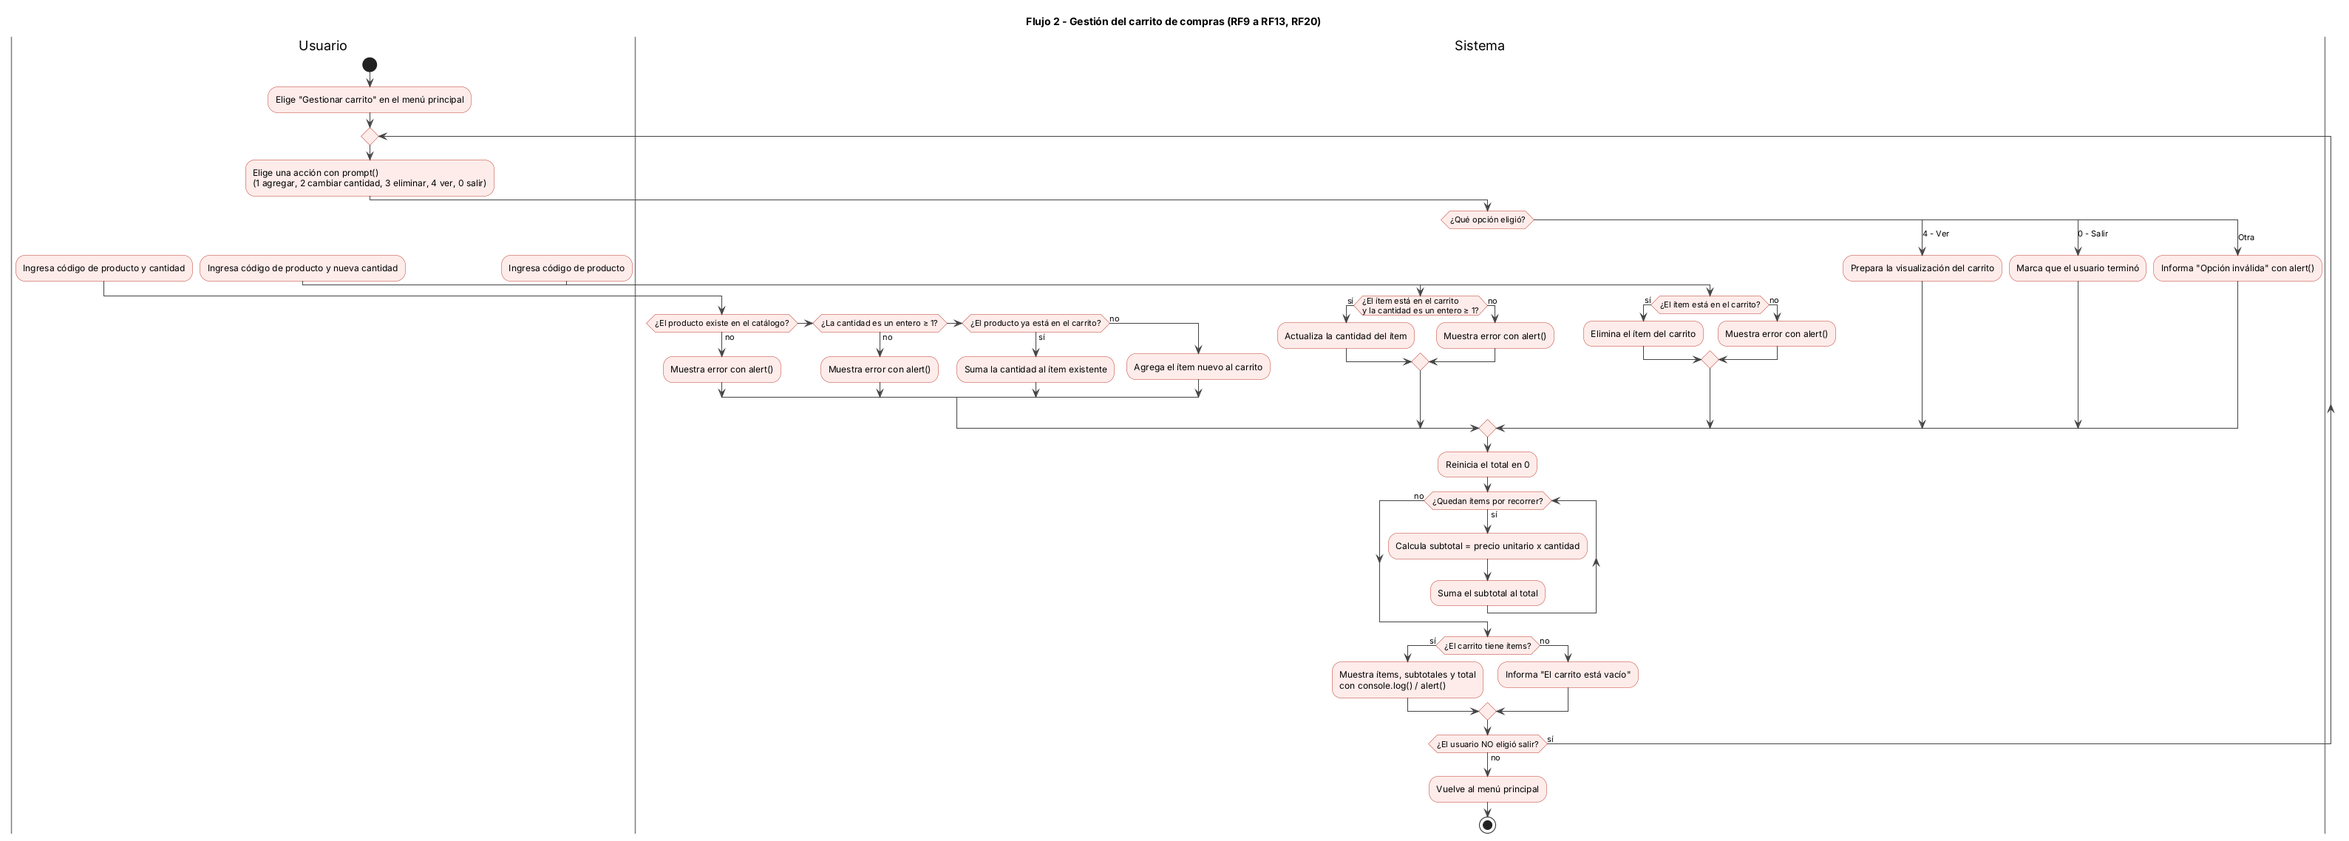
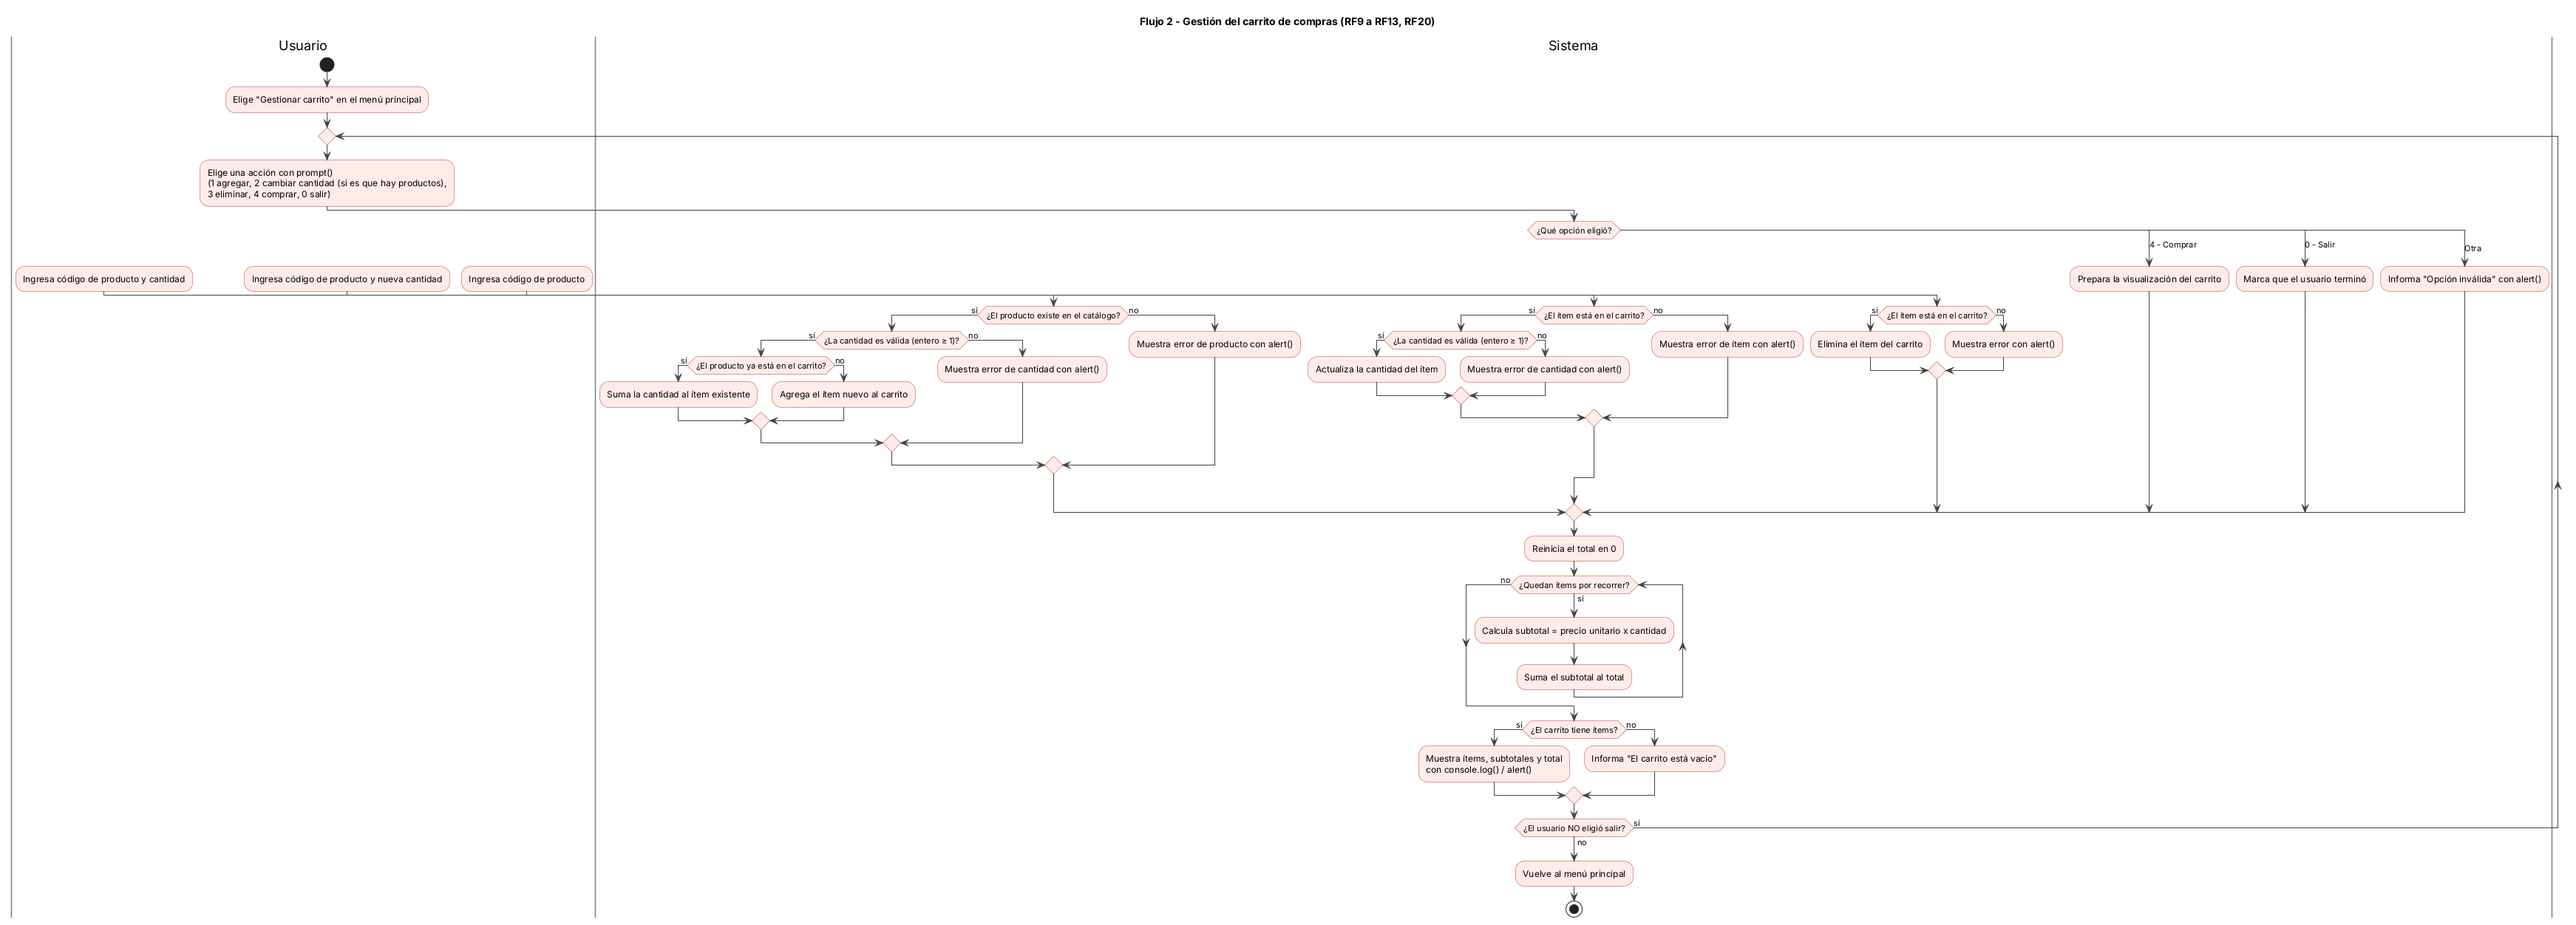
aplicar correcciones del code review (flujo 2, spec AL CERRAR, checklist y changelog)

diff --git a/docs/03-specs/actividad-obligatoria-3/spec-arq-diagramas.md b/docs/03-specs/actividad-obligatoria-3/spec-arq-diagramas.md
@@ -43,17 +43,19 @@ UI. Dentro de cada diagrama:
 
 ### Criterios de aceptación
 
-- [ ] 4 diagramas con `start`, `stop`, actividades, decisiones `if-then-else`
+- [x] 4 diagramas con `start`, `stop`, actividades, decisiones `if-then-else`
       y ciclos (`while` o `repeat`).
-- [ ] Swimlanes `|Usuario|` y `|Sistema|` en los flujos donde interviene el
+- [x] Swimlanes `|Usuario|` y `|Sistema|` en los flujos donde interviene el
       usuario.
-- [ ] Flujo lógico coherente con la implementación planificada en `plan.md`
+- [x] Flujo lógico coherente con la implementación planificada en `plan.md`
       y con `index.html`.
-- [ ] Archivos `.puml` y `.png` exportados para cada diagrama.
-- [ ] `diagramas-doc.md` con índice, descripción de cada flujo, enlace al
-      `.puml`, imagen `.png` embebida e instrucciones de edición.
+- [x] Archivos `.puml` y `.png` exportados para cada diagrama (cada `.png`
+      se regeneró desde su `.puml` y se comprobó que coincide).
+- [x] `diagramas-doc.md` con índice, descripción de cada flujo, enlace al
+      `.puml`, imagen `.png` embebida e instrucciones de edición (se
+      comprobó que los enlaces relativos apuntan a archivos existentes).
 - [ ] Coordinación con el Desarrollador JavaScript para que los diagramas
-      reflejen la implementación.
+      reflejen la implementación (pendiente de confirmación por su parte).
 
 ### Herramientas
 
@@ -77,30 +79,78 @@ docs/05-diagramas/01-diagrama-de-actividades/actividad-flujo-4-confirmacion-pedi
 
 ## AL CERRAR — Evidencia del proceso
 
-*(Completar cuando terminen los diagramas.)*
+### Herramienta y contexto
 
-### Prompt exacto usado en Copilot Agent
+Los borradores de los 4 `.puml` se generaron con un asistente de IA
+conversacional (Claude), no con GitHub Copilot en modo Agente. Se le
+proporcionó como contexto:
 
-Archivos adjuntados como contexto: `plan.md`, `index.html`, mockup
-(`docs/01-mockup/...`).
+- El repositorio del proyecto (`ProyectoFerreteria_GRP05`, rama
+  `origin/develop`), del que se leyeron `plan.md` e `index.html`.
+- La consigna de la Actividad Obligatoria N°3 (PDF).
+
+No se adjuntó la imagen del mockup en esa generación; la estructura de
+pantallas se tomó de `index.html`.
+
+Los diagramas se renderizaron con PlantUML (`plantuml.jar` 1.2024.7) para
+validar la sintaxis y exportar los `.png`.
+
+### Prompt utilizado
+
+Mensaje enviado al asistente, junto con el zip del repositorio y el PDF de
+la consigna:
 
 ```
-(pegar acá el prompt exacto)
+ya elegi el rol de Arquitecto de Diagramas de Actividades aca tenemos el actual estado del proyecto
 ```
 
-### Fragmento del `.puml` generado por Copilot
+A partir de eso el asistente propuso los 4 flujos (ver sección ANTES), que
+se aceptaron, y generó el spec y los `.puml`. Más tarde se pidió pasar a
+PlantUML un diagrama editado a mano (flujo 2) y se aplicaron las
+correcciones del code review.
+
+### Fragmento generado (primera versión del flujo 2)
 
 ```plantuml
-(pegar acá el fragmento de al menos uno de los diagramas, tal como lo generó Copilot)
+    if (¿El producto existe en el catálogo?) then (no)
+      :Muestra error con alert();
+    elseif (¿La cantidad es un entero ≥ 1?) then (no)
+      :Muestra error con alert();
+    elseif (¿El producto ya está en el carrito?) then (sí)
+      :Suma la cantidad al ítem existente;
+    else (no)
+      :Agrega el ítem nuevo al carrito;
+    endif
 ```
 
-### Ajustes manuales realizados
+### Ajustes manuales y correcciones
 
-- (errores de sintaxis PlantUML corregidos)
-- (flujos incorrectos o incompletos)
-- (swimlanes mal modeladas)
+- **Flujo 2, menú:** se cambió la opción 4 de "ver" a "comprar" y se agregó
+  "(si es que hay productos)" a la opción 2, editando el diagrama a mano.
+- **Flujo 2, estructura:** la primera versión resolvía el menú con una
+  cadena de `elseif`, que quedaba ancha y difícil de leer; se reescribió con
+  `switch`.
+- **Flujo 2, validaciones (code review):** la cadena de `elseif` mezclaba
+  condiciones formuladas en positivo con ramas `no` de error, lo que hacía
+  ambiguo el recorrido. Se reemplazó por decisiones anidadas con una
+  condición clara por nivel: primero existencia del producto, después
+  cantidad válida y finalmente si ya está en el carrito. Se aplicó el mismo
+  criterio al caso "cambiar cantidad".
+- **Verificación:** se regeneraron los 4 `.png` desde sus `.puml` y se
+  comprobó que coinciden con los archivos exportados.
 
 ### Decisiones de diseño finales
 
-- (por qué cada flujo quedó modelado como quedó)
-- (acuerdos con el Desarrollador JavaScript)
+- Swimlanes `|Usuario|` / `|Sistema|` en los cuatro diagramas, porque toda
+  la interacción es `prompt()` contra `alert()` / `console.log()` y eso
+  deja visible la separación entre interacción y lógica de negocio que se
+  pide para facilitar el testing.
+- Cada dato que se ingresa con `prompt()` se modela con un ciclo
+  `repeat ... repeat while` que vuelve a pedirlo hasta que sea válido.
+- Los flujos 2, 3 y 4 son consecutivos (carrito, pago, confirmación); el
+  flujo 1 es independiente y alimenta al 2.
+- En el flujo 3 se modelan dos métodos de pago: efectivo/transferencia (sin
+  cuotas) y tarjeta de crédito (con cuotas). El porcentaje de recargo se
+  representa como una consulta a una tabla según la cantidad de cuotas;
+  los valores concretos los define la implementación en `js/script.js`.
+- El flujo 4 solicita nombre, correo y dirección de envío del comprador.

diff --git a/README.md b/README.md
@@ -77,7 +77,7 @@ de Google Maps dentro de `.ratio.ratio-16x9`).
 
 | Nombre y Apellido | Matrícula | Usuario de GitHub | Rol |
 |-----| ----- | ------ | ------ |
-| Luciano Barrionuevo | 156398 | @LuchoBarrionuevo13 | Desarrollador Frontend/Bootstrap |
-| Alan Diaz | 152841 | @alandox1 | Desarrollador de Componentes HTML Avanzados |
-| Angel Cuarteron | 159438 | @angelgc9107-lgtm | Especialista en Componentes Bootstrap |
-| Thiago Piastrellini | 158097 | @Piastrellini | Coordinador y DevOps |
+| Luciano Barrionuevo | 156398 | @LuchoBarrionuevo13 | Coordinador y DevOps |
+| Alan Diaz | 152841 | @alandox1 | Arquitecto de Diagramas de Actividades |
+| Angel Cuarteron | 159438 | @angelgc9107-lgtm | Desarrollador javascript |
+| Thiago Piastrellini | 158097 | @Piastrellini | Tester JavaScript / QA Engineer |

diff --git a/docs/05-diagramas/01-diagrama-de-actividades/diagramas-doc.md b/docs/05-diagramas/01-diagrama-de-actividades/diagramas-doc.md
@@ -31,7 +31,7 @@ de nuevo.
 
 ## Flujo 2 — Gestión del carrito
 
-Menú con `prompt()` para agregar, cambiar cantidad, eliminar, ver o salir.
+Menú con `prompt()` para agregar, cambiar cantidad, eliminar, comprar o salir.
 Cada acción valida producto y cantidad. Después de cada acción el sistema
 recorre los ítems, recalcula subtotales y total, y muestra el carrito.
 
